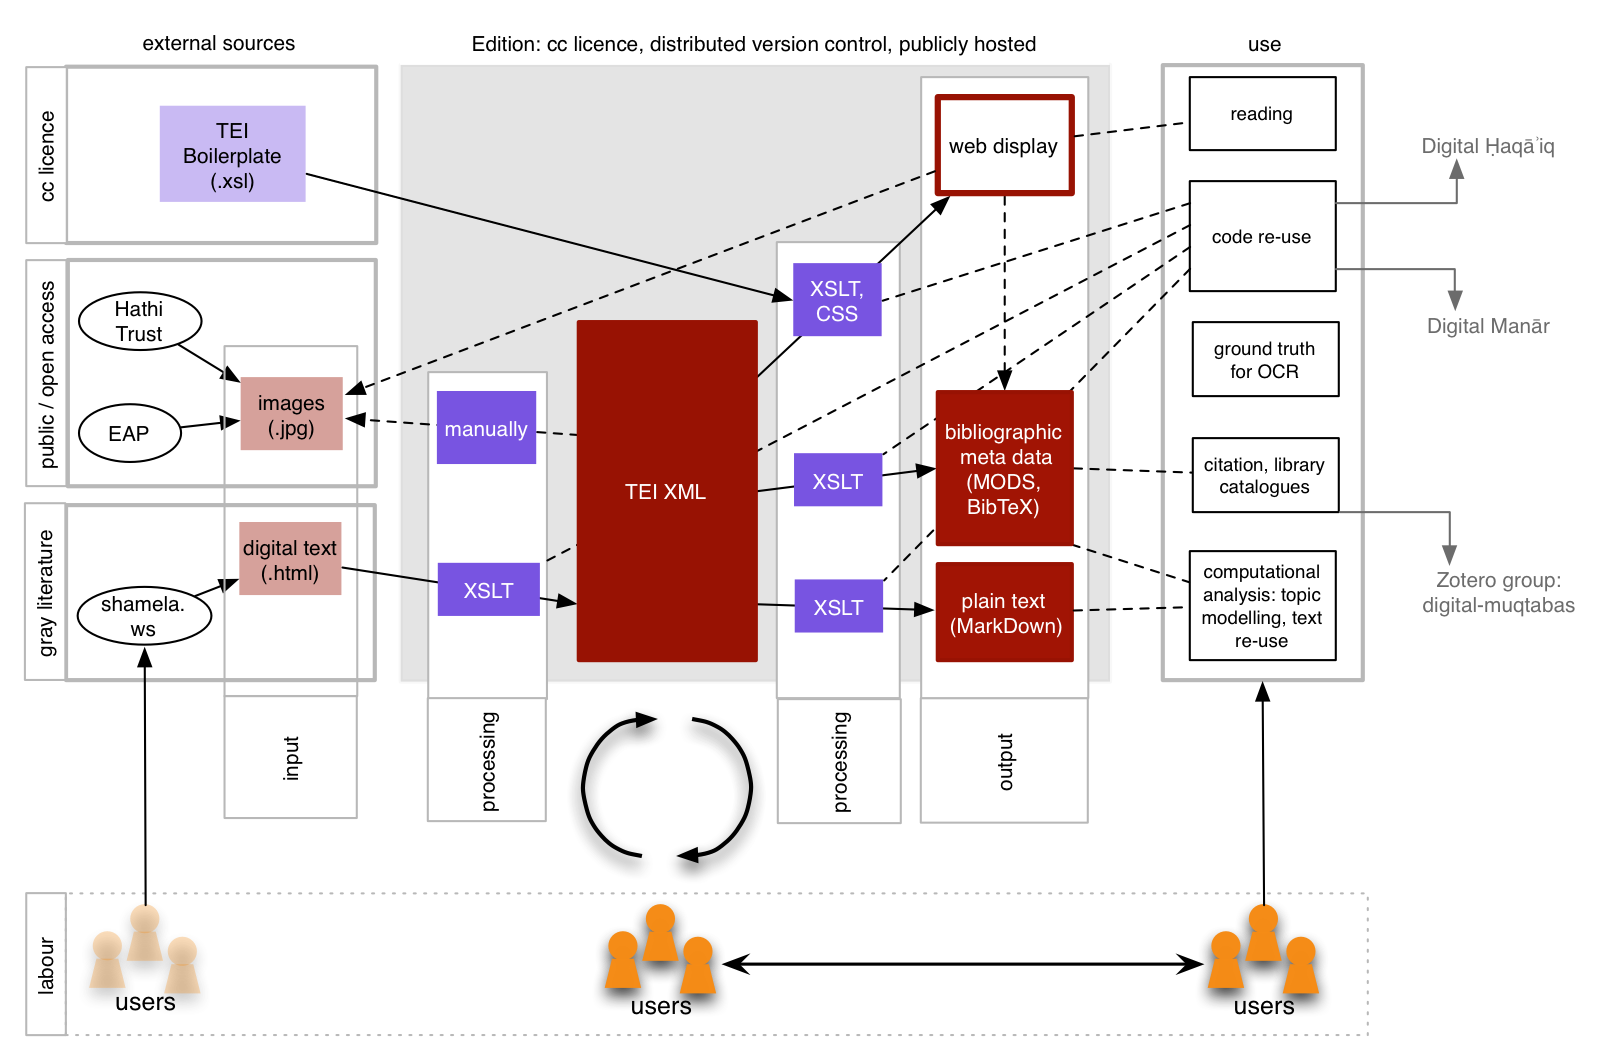
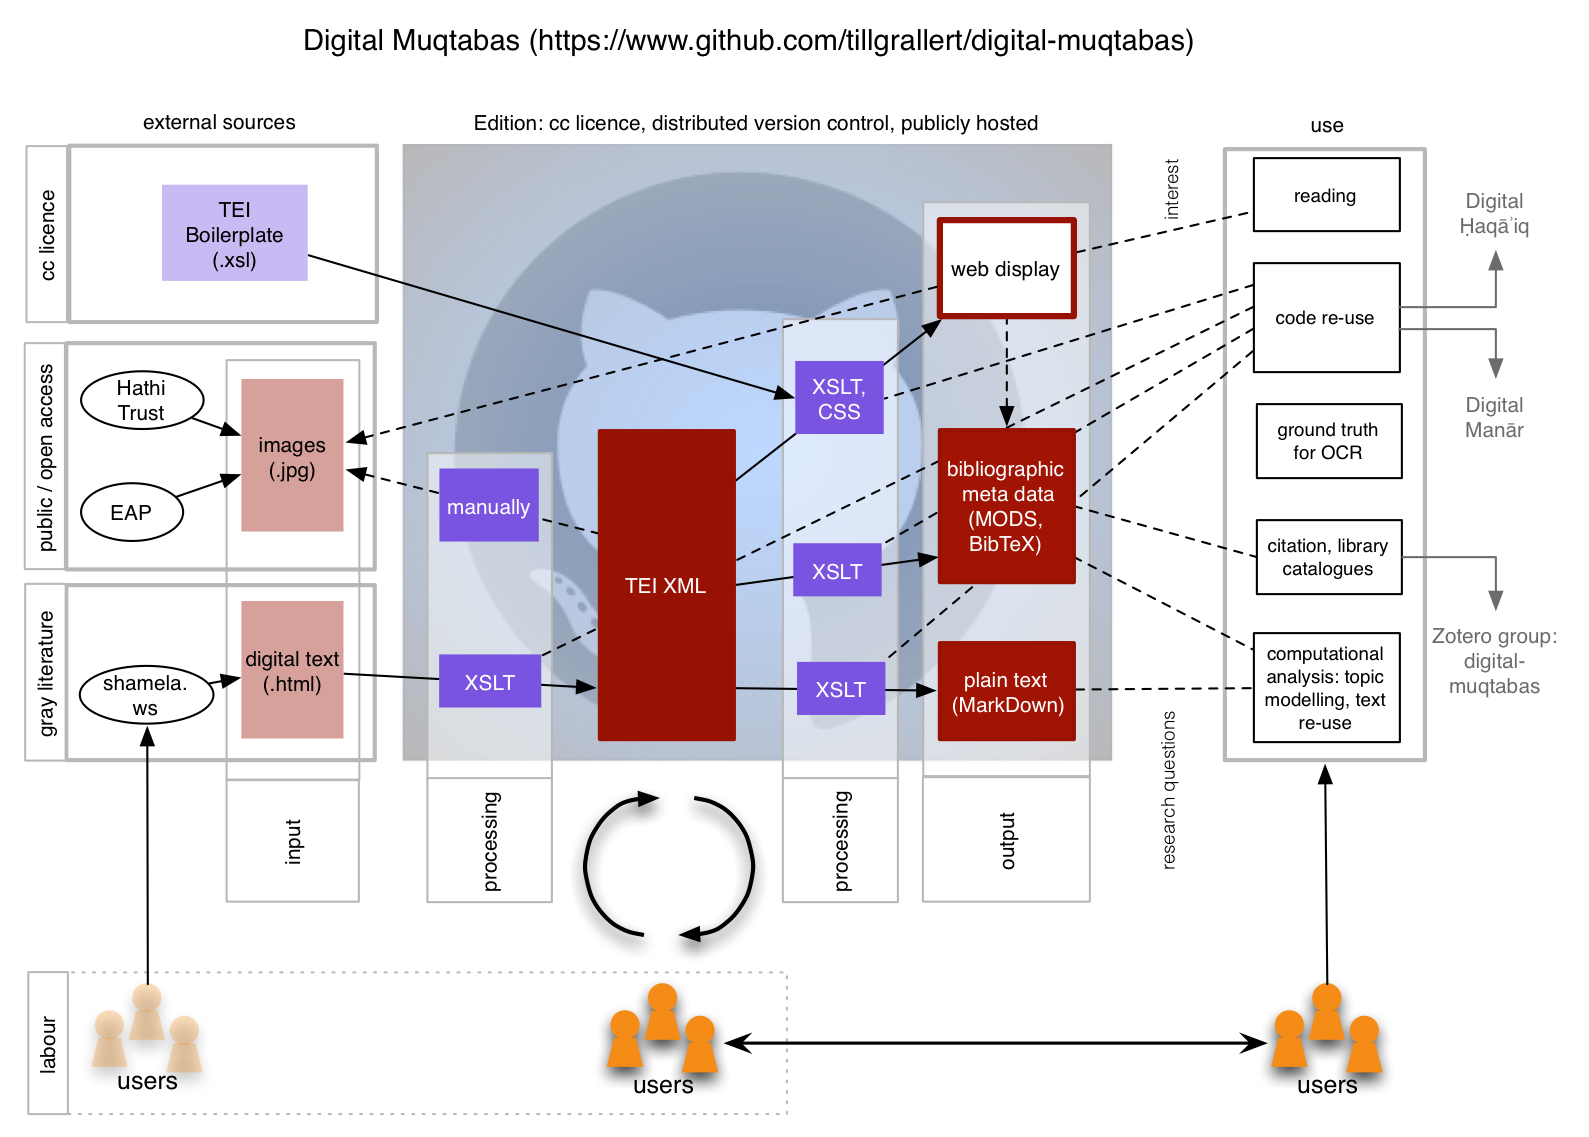
updated AUC2016 slides

diff --git a/AUC2016/index.html b/AUC2016/index.html
@@ -229,11 +229,11 @@ document.write('<a h'+'ref'+'="ma'+'ilto'+':'+e+'" clas'+'s="em' + 'ail">'+e+'<\
 <li>9 volumes, 96 issues (at least 2 double issues), c. 7000 pages</li>
 </ul></li>
 <li>Muḥammad Kurd ʿAlī (1876-1952): Ottoman bureaucrat, journalist, president of the Syrian Academy of Sciences, minister of education.</li>
-<li>availability at c. 30 libraries (North America, Europe, Middle East):
+<li>available at c. 30 libraries (North America, Europe, Middle East):
 <ul>
 <li>original prints (mostly incomplete)</li>
 <li>some copies of a “gray” reprint</li>
-<li>a number of microfiche copies from the same source</li>
+<li>a number of microfiche copies from a single source</li>
 </ul></li>
 </ul>
 <!--     + Palestine: 1 incomplete copy
@@ -270,9 +270,9 @@ document.write('<a h'+'ref'+'="ma'+'ilto'+':'+e+'" clas'+'s="em' + 'ail">'+e+'<\
 </div>
 <!-- # 3.1 Basis: Generate the TEI edition
 
-![](../assets/dape/DAPE-organigramme_vertical-input.png)
+![](../assets/dape/DAPE-organigramme_horizontal-input.png)
 
-![](../assets/dape/DAPE-organigramme_vertical-edition.png) -->
+![](../assets/dape/DAPE-organigramme_horizontal-edition.png) -->
 </div>
 <div id="basis-generate-the-tei-edition" class="slide section level1">
 <h1>3.1 Basis: Generate the TEI edition</h1>
@@ -336,8 +336,8 @@ document.write('<a h'+'ref'+'="ma'+'ilto'+':'+e+'" clas'+'s="em' + 'ail">'+e+'<\
 <div id="basis-is-this-legal" class="slide section level1">
 <h1>3.1 Basis: Is this legal?</h1>
 <div class="figure">
-<img src="../assets/dape/DAPE-organigramme_vertical-input.png" />
-
+<img src="../assets/dape/DAPE-organigramme_horizontal-input.png" alt="External sources, external labour, and the question of copyright" />
+<p class="caption">External sources, external labour, and the question of copyright</p>
 </div>
 </div>
 <div id="basis-is-this-legal-1" class="slide section level1">
@@ -346,7 +346,7 @@ document.write('<a h'+'ref'+'="ma'+'ilto'+':'+e+'" clas'+'s="em' + 'ail">'+e+'<\
 <ol style="list-style-type: decimal">
 <li>text of <em>al-Muqtabas</em>
 <ul>
-<li>is in the public domain: transcription is <em>legal</em></li>
+<li>is in the public domain: transcription and imaging is <em>legal</em>.<a href="#fn1" class="footnoteRef" id="fnref1"><sup>1</sup></a></li>
 <li>the transcribers do not / cannot claim copyright: copying is <em>legal</em></li>
 </ul></li>
 <li>images of <em>al-Muqtabas</em>
@@ -356,15 +356,15 @@ document.write('<a h'+'ref'+'="ma'+'ilto'+':'+e+'" clas'+'s="em' + 'ail">'+e+'<\
 </ul></li>
 <li>digital edition of <em>al-Muqtabas</em>
 <ul>
-<li>all our work is licenced as <a href="http://creativecommons.org/licenses/by-sa/4.0/">CC BY-SA 4.0 licence</a></li>
+<li>all our work is licenced as <a href="http://creativecommons.org/licenses/by-sa/4.0/">CC BY-SA 4.0</a></li>
 </ul></li>
 </ol>
 </div>
 <div id="core-feature-continuous-improvement" class="slide section level1">
 <h1>3.2 Core feature: Continuous improvement</h1>
 <div class="figure">
-<img src="../assets/dape/DAPE-organigramme_vertical-crowd.png" />
-
+<img src="../assets/dape/DAPE-organigramme_vertical-crowd.png" alt="A social and GitHub-hosted digital edition" />
+<p class="caption">A social and GitHub-hosted digital edition</p>
 </div>
 </div>
 <div id="core-feature-continuous-improvement-1" class="slide section level1">
@@ -392,11 +392,15 @@ document.write('<a h'+'ref'+'="ma'+'ilto'+':'+e+'" clas'+'s="em' + 'ail">'+e+'<\
 <li>send us a <em>pull request</em></li>
 <li>changes will be reviewed and merged</li>
 </ul>
+<div class="figure">
+<img src="../assets/dape/github_branches-1.png" alt="Branches on GitHub" />
+<p class="caption">Branches on GitHub</p>
+</div>
 </div>
 <div id="sugar-on-top-web-view" class="slide section level1">
 <h1>3.3 Sugar on top: web-view</h1>
 <div class="figure">
-<img src="../assets/dape/boilerplate_muqtabas.png" alt="Display of al-Muqtabas 6(2)" />
+<img src="../assets/dape/boilerplate_muqtabas-1.png" alt="Display of al-Muqtabas 6(2)" />
 <p class="caption"><a href="https://rawgit.com/tillgrallert/digital-muqtabas/master/xml/oclc_4770057679-i_61.TEIP5.xml">Display of <em>al-Muqtabas</em> 6(2)</a></p>
 </div>
 </div>
@@ -495,6 +499,12 @@ h='&#x6f;&#114;&#x69;&#x65;&#110;&#116;&#x2d;&#x69;&#110;&#x73;&#116;&#x69;&#116
 document.write('<a h'+'ref'+'="ma'+'ilto'+':'+e+'" clas'+'s="em' + 'ail">'+e+'<\/'+'a'+'>');
 // -->
 </script><noscript>&#x67;&#114;&#x61;&#108;&#108;&#x65;&#114;&#116;&#32;&#x61;&#116;&#32;&#x6f;&#114;&#x69;&#x65;&#110;&#116;&#x2d;&#x69;&#110;&#x73;&#116;&#x69;&#116;&#x75;&#116;&#32;&#100;&#x6f;&#116;&#32;&#x6f;&#114;&#x67;</noscript></p>
+</div>
+<div class="footnotes slide">
+<hr />
+<ol>
+<li id="fn1"><p>even in the US as attested to by HathiTrust<a href="#fnref1">↩</a></p></li>
+</ol>
 </div>
 </body>
 </html>

diff --git a/AUC2016/DAPE-Slides-2016-04-12.md b/AUC2016/DAPE-Slides-2016-04-12.md
@@ -114,10 +114,10 @@ Digital imagery, e.g. [Endangered Archives Programme (EAP)](http://eap.bl.uk/dat
 - "monthly" journal published by Muḥammad Kurd ʿAlī between 1906 and 1918/19 in Cairo and, from 1908 onwards, in Damascus.
     + 9 volumes, 96 issues (at least 2 double issues), c. 7000 pages
 - Muḥammad Kurd ʿAlī (1876-1952): Ottoman bureaucrat, journalist, president of the Syrian Academy of Sciences, minister of education. 
-- availability at c. 30 libraries (North America, Europe, Middle East): 
+- available at c. 30 libraries (North America, Europe, Middle East): 
     + original prints (mostly incomplete)
     + some copies of a "gray" reprint
-    + a number of microfiche copies from the same source
+    + a number of microfiche copies from a single source
 
 <!--     + Palestine: 1 incomplete copy
     + Lebanon: at least 2 complete physical copies
@@ -143,9 +143,9 @@ Digital imagery, e.g. [Endangered Archives Programme (EAP)](http://eap.bl.uk/dat
 
 <!-- # 3.1 Basis: Generate the TEI edition
 
-![](../assets/dape/DAPE-organigramme_vertical-input.png)
+![](../assets/dape/DAPE-organigramme_horizontal-input.png)
 
-![](../assets/dape/DAPE-organigramme_vertical-edition.png) -->
+![](../assets/dape/DAPE-organigramme_horizontal-edition.png) -->
 
 # 3.1 Basis: Generate the TEI edition
 
@@ -204,24 +204,24 @@ Digital imagery, e.g. [Endangered Archives Programme (EAP)](http://eap.bl.uk/dat
 
 # 3.1 Basis: Is this legal?
 
-![](../assets/dape/DAPE-organigramme_vertical-input.png)
+![External sources, external labour, and the question of copyright](../assets/dape/DAPE-organigramme_horizontal-input.png)
 
 # 3.1 Basis: Is this legal?
 
 Copyright depends on the jurisdiction of creators, distributors, etc.
 
 1. text of *al-Muqtabas*
-    + is in the public domain: transcription is *legal*
+    + is in the public domain: transcription and imaging is *legal*.^[even in the US as attested to by HathiTrust]
     + the transcribers do not / cannot claim copyright: copying is *legal*
 2. images of *al-Muqtabas*
     + digital files are protected by copyright: use is subject to licence, linking is *legal*
     + download and redistribution: almost certainly *illegal*
 3. digital edition of *al-Muqtabas*
-    + all our work is licenced as [CC BY-SA 4.0 licence](http://creativecommons.org/licenses/by-sa/4.0/)
+    + all our work is licenced as [CC BY-SA 4.0](http://creativecommons.org/licenses/by-sa/4.0/)
 
 # 3.2 Core feature: Continuous improvement
 
-![](../assets/dape/DAPE-organigramme_vertical-crowd.png)
+![A social and GitHub-hosted digital edition](../assets/dape/DAPE-organigramme_vertical-crowd.png)
 
 # 3.2 Core feature: Continuous improvement
 
@@ -241,9 +241,11 @@ Copyright depends on the jurisdiction of creators, distributors, etc.
 - send us a *pull request*
 - changes will be reviewed and merged
 
+![Branches on GitHub](../assets/dape/github_branches-1.png)
+
 # 3.3 Sugar on top: web-view
 
-![[Display of *al-Muqtabas* 6(2)](https://rawgit.com/tillgrallert/digital-muqtabas/master/xml/oclc_4770057679-i_61.TEIP5.xml)](../assets/dape/boilerplate_muqtabas.png)
+![[Display of *al-Muqtabas* 6(2)](https://rawgit.com/tillgrallert/digital-muqtabas/master/xml/oclc_4770057679-i_61.TEIP5.xml)](../assets/dape/boilerplate_muqtabas-1.png)
 
 # 3.3 Sugar on top: web-view
 
